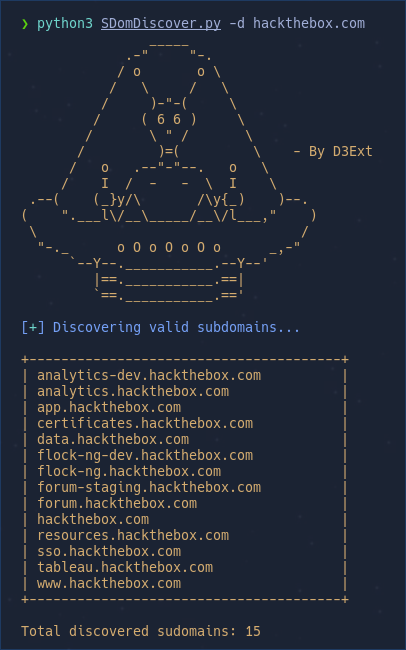
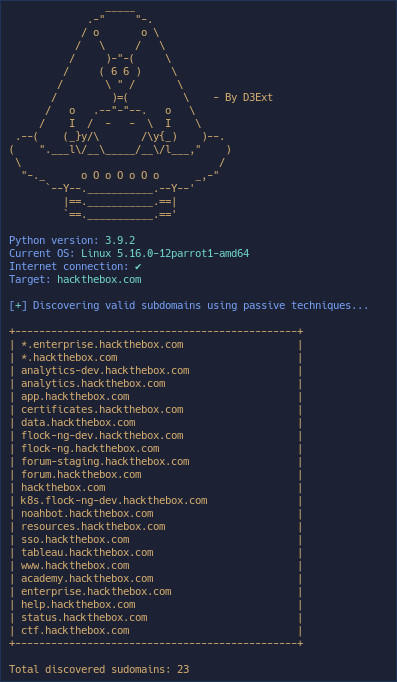
Add files via upload

diff --git a/AORT.py b/AORT.py
@@ -76,6 +76,8 @@ def banner():
         else:
             print(c.BLUE + "Internet connection: " + c.GREEN + "✔" + c.END)
 
+    print(c.BLUE + "Target: " + c.GREEN + domain + c.END)
+
 # Argument parser Function
 def parseArgs():
 
@@ -96,8 +98,9 @@ def parseArgs():
     p.add_argument("-c", "--check", help="check active subdomains and store them into a file", action='store_true', required=False)
     #p.add_argument("--osint", help="perform OSINT to find some valid accounts in different applications", action='store_true', required=False)
     p.add_argument("--enum", help="stealthily enumerate and identify common technologies", action='store_true', required=False)
-    p.add_argument("--wayback", help="find useful information about the domain and his different endpoints using The Wayback Machine", action="store_true", required=False)
+    p.add_argument("--wayback", help="find useful information about the domain and his different endpoints using The Wayback Machine and other services", action="store_true", required=False)
     p.add_argument("--all", help="perform all the enumeration at once (best choice)", action='store_true', required=False)
+    p.add_argument("-q", "--quiet", help="don't print the banner", action='store_true', required=False)
     p.add_argument("--version", help="display the script version", action='store_true', required=False)
 
     return p.parse_args()
@@ -399,36 +402,6 @@ def cloudgitEnum(domain):
     if r.status_code == 200:
         print(c.YELLOW + "Gitlab account found: https://gitlab.com/" + domain.split(".")[0] + " - " + str(r.status_code) + " status code" + c.END)
 
-# Function to check valid accounts on different platforms
-def osint(domain):
-    
-    print(c.BLUE + "\n[" + c.END + c.GREEN + "+" + c.END + c.BLUE + "] Searching valid accounts associated to the domain (social networks and more)\n" + c.END)
-    
-    """
-    URLs array
-    """
-
-    osint_urls = ["https://twitter.com/{}","https://www.instagram.com/{}/","https://www.facebook.com/{}","https://pypi.org/user/{}","https://about.me/{}","https://www.airliners.net/user/{}/profile/photos","https://bitbucket.org/{}/","https://buymeacoff.ee/{}","https://www.chess.com/member/{}","https://www.clubhouse.com/@{}","https://dev.to/{}","https://www.dailymotion.com/{}","https://hub.docker.com/u/{}/","https://www.fandom.com/u/{}","https://www.fiverr.com/{}","https://flipboard.com/@{}","https://www.freelancer.com/u/{}","http://en.gravatar.com/{}","https://hackerearth.com/@{}","https://hackerone.com/{}","https://imgur.com/user/{}","https://launchpad.net/~{}","https://leetcode.com/{}","https://medium.com/@{}","https://myspace.com/{}","https://notabug.org/{}","https://pastebin.com/u/{}","https://www.patreon.com/{}","https://www.reddit.com/user/{}","https://www.snapchat.com/add/{}","https://sourceforge.net/u/{}","https://t.me/{}","https://tiktok.com/@{}","https://www.twitch.tv/{}","https://vsco.co/{}","https://vimeo.com/{}","https://www.virustotal.com/ui/users/{}/trusted_users"]
-
-    valid_counter = 0
-
-    for url in osint_urls:
-
-        r = requests.get((url).format(domain.split(".")[0]), allow_redirects=True)
-
-        if r.status_code == 200 and "not found" not in r.text and "Sorry, nobody" not in r.text and "Sorry, this" not in r.text and "Error 404" not in r.text and "doesn’t exist" not in r.text and "Page Not Found" not in r.text and "this page is not available" not in r.text:
-
-            valid_counter += 1
-
-            if valid_counter == 1:
-                print(c.YELLOW + "Valid accounts" + c.END)
-                print(c.YELLOW + "-------------" + c.END)
-
-            print(c.YELLOW + (url).format(domain.split(".")[0]) + c.END)
-
-    if valid_counter <= 0:
-        print(c.YELLOW + "Any account found" + c.END)
-
 # Wayback Machine function
 def wayback(domain):
 
@@ -441,7 +414,7 @@ def wayback(domain):
     wayback_url = f"http://web.archive.org/cdx/search/cdx?url=*.{domain}/*&output=json&fl=original&collapse=urlkey"
     
     """
-    Get information in an array
+    Get information from Wayback Machine
     """
     try:
         r = requests.get(wayback_url, timeout=20)
@@ -468,6 +441,25 @@ def wayback(domain):
         file = open(f"{domain_name}-wayback.txt", "a")
         file.write(result[0] + "\n")
 
+    
+    """
+    Get URLs and endpoints from URLScan
+    """
+
+    try:
+        r = requests.get(f"https://urlscan.io/api/v1/search/?q=domain:{domain}", timeout=20)
+
+        myresp = json.loads(r.text)
+        results = myresp["results"]
+
+        for res in results:
+            url = res["task"]["url"]
+
+            file = open(f"{domain_name}-wayback.txt", "a")
+            file.write(url + "\n")
+    except:
+        pass
+
     print(c.YELLOW + f"\nInformation stored in {domain_name}-wayback.txt" + c.END)
 
 #def createReport(domain):
@@ -480,8 +472,8 @@ def checkStatus(subdomain, file):
     try:
         r = requests.get("https://" + subdomain, timeout=2)
 
-        if r.status_code == 200 or r.status_code == 302 or r.status_code == 301 or r.status_code == 401:
-            file.write(subdomain + "\n")
+        if r.status_code:
+            file.write("https://" + subdomain + "\n")
     except:
         pass
 
@@ -559,7 +551,7 @@ def basicEnum(domain):
 
 # Main Domain Discoverer Function
 def SDom(domain,filename):
-    banner()
+    
     print(c.BLUE + "\n[" + c.END + c.GREEN + "+" + c.END + c.BLUE + "] Discovering valid subdomains using passive techniques...\n" + c.END)
     sleep(0.1)
 
@@ -755,6 +747,15 @@ def SDom(domain,filename):
     else:
         print(c.YELLOW + "Any subdomain discovered through SSL transparency" + c.END)
 
+# Check if the given target is active/real
+def checkDomain(domain):
+
+    try:
+        addr = socket.gethostbyname(domain)
+    except:
+        print(c.YELLOW + "\nTarget doesn't exists or is down" + c.END)
+        sys.exit(1)
+
 # Program workflow starts here
 if __name__ == '__main__':
 
@@ -783,11 +784,16 @@ if __name__ == '__main__':
     else:
         filename = None
 
+    global domain
+
+    domain = parse.domain
+    checkDomain(domain)
+
     """
     If --all is passed do all enumeration processes
     """
     if parse.domain and parse.all:
-        domain = parse.domain
+
         if domain.startswith('https://'):
             domain = domain.split('https://')[1]
 
@@ -795,6 +801,10 @@ if __name__ == '__main__':
             domain = domain.split('http://')[1]
 
         try:
+
+            if not parse.quiet:
+                banner()
+
             SDom(domain,filename)
             portScan(domain)
             ns_enum(domain)
@@ -840,6 +850,10 @@ if __name__ == '__main__':
             domain = domain.split('http://')[1]
         
         try:
+
+            if not parse.quiet:
+                banner()
+
             SDom(domain,filename)
     
             """
